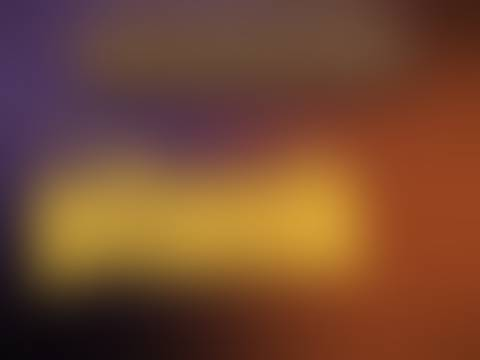
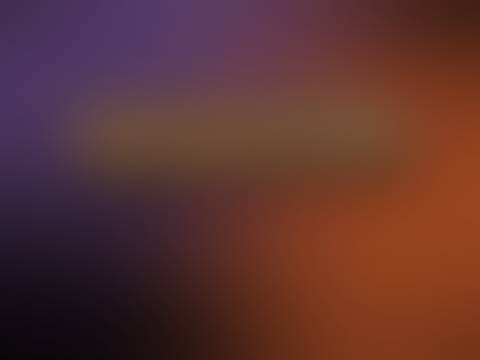
Vakjesbeelden zonder tekst

diff --git a/suadfy-november/index.html b/suadfy-november/index.html
@@ -15,7 +15,7 @@
 <main class="hero smal">
 <p class="label">November 2026</p>
 <h1>Een Remma-dag!</h1>
-<img class="foto" src="../f/9d196b534d.jpg" alt="">
+
 <div class="tekst">
 <p>Een hele dag zonder verplichtingen. Helemaal van jou.</p>
 <div class="bon"><p class="bonkop">Tegoedbon</p><p class="bontitel">Eén Remma-dag</p><ul><li>Geen verplichtingen</li><li>Geen luiers</li><li>Niet koken</li><li>Geen afwas</li></ul><div class="bonextra"><span class="bonkop">Bij te boeken</span><span class="extra">Ontbijt op bed<em>meerprijs</em></span></div><div class="bonvoet"><span>Geldig op een dag naar keuze</span><span>In te wisselen bij Reinout</span></div></div>
@@ -28,7 +28,7 @@ document.querySelectorAll("[data-terug]").forEach(a => a.href += location.search
 </script>
 <script>
 // Onthoudt op dit apparaat dat het vakje open is geweest: de foto wordt scherp en het raadsel vervalt.
-try { localStorage.setItem("remma38-vakje-2", JSON.stringify({pad: "suadfy-november", foto: "9d196b534d"})); } catch (e) {}
+try { localStorage.setItem("remma38-vakje-2", JSON.stringify({pad: "suadfy-november", foto: "9d196b534dt"})); } catch (e) {}
 </script>
 </body>
 </html>

diff --git a/x4fv9v-januari/index.html b/x4fv9v-januari/index.html
@@ -15,7 +15,7 @@
 <main class="hero smal">
 <p class="label">Januari 2027</p>
 <h1>Een boek voor op je Kobo</h1>
-<img class="foto" src="../f/053ffe1b55.jpg" alt="">
+
 <div class="tekst">
 <p>Ik heb een boek voor je uitgekozen. Het staat al voor je klaar.</p>
 <p>Daarbij krijg je een middag zonder verplichtingen om erin te beginnen. Ik regel de rest.</p>
@@ -27,7 +27,7 @@ document.querySelectorAll("[data-terug]").forEach(a => a.href += location.search
 </script>
 <script>
 // Onthoudt op dit apparaat dat het vakje open is geweest: de foto wordt scherp en het raadsel vervalt.
-try { localStorage.setItem("remma38-vakje-4", JSON.stringify({pad: "x4fv9v-januari", foto: "053ffe1b55"})); } catch (e) {}
+try { localStorage.setItem("remma38-vakje-4", JSON.stringify({pad: "x4fv9v-januari", foto: "053ffe1b55t"})); } catch (e) {}
 </script>
 </body>
 </html>

diff --git a/8lygjy-september/index.html b/8lygjy-september/index.html
@@ -15,7 +15,7 @@
 <main class="hero smal">
 <p class="label">September 2027</p>
 <h1>Het hele jaar in één boekje</h1>
-<img class="foto" src="../f/1032194cf0.jpg" alt="">
+
 <div class="tekst">
 <p>Dit is het laatste vakje. Twaalf maanden, twaalf cadeaus.</p>
 <p>Van alles wat we dit jaar gedaan hebben, heb ik een fotoboekje voor je gemaakt.</p>
@@ -28,7 +28,7 @@ document.querySelectorAll("[data-terug]").forEach(a => a.href += location.search
 </script>
 <script>
 // Onthoudt op dit apparaat dat het vakje open is geweest: de foto wordt scherp en het raadsel vervalt.
-try { localStorage.setItem("remma38-vakje-12", JSON.stringify({pad: "8lygjy-september", foto: "1032194cf0"})); } catch (e) {}
+try { localStorage.setItem("remma38-vakje-12", JSON.stringify({pad: "8lygjy-september", foto: "1032194cf0t"})); } catch (e) {}
 </script>
 </body>
 </html>

diff --git a/8k0d5l-december/index.html b/8k0d5l-december/index.html
@@ -15,7 +15,7 @@
 <main class="hero smal">
 <p class="label">December 2026</p>
 <h1>Poffertjes!</h1>
-<img class="foto" src="../f/4a69e811b1.jpg" alt="">
+
 <div class="tekst">
 <p>Deze stond op je lijstje: een poffertjespan.</p>
 <p>Aanstaande zondag bak ik de eerste lading voor je. Met poedersuiker en echte boter, zoals het hoort.</p>
@@ -27,7 +27,7 @@ document.querySelectorAll("[data-terug]").forEach(a => a.href += location.search
 </script>
 <script>
 // Onthoudt op dit apparaat dat het vakje open is geweest: de foto wordt scherp en het raadsel vervalt.
-try { localStorage.setItem("remma38-vakje-3", JSON.stringify({pad: "8k0d5l-december", foto: "4a69e811b1"})); } catch (e) {}
+try { localStorage.setItem("remma38-vakje-3", JSON.stringify({pad: "8k0d5l-december", foto: "4a69e811b1t"})); } catch (e) {}
 </script>
 </body>
 </html>

diff --git a/yg21jc-maart/index.html b/yg21jc-maart/index.html
@@ -15,7 +15,7 @@
 <main class="hero smal">
 <p class="label">Maart 2027</p>
 <h1>Restaurant Gorter</h1>
-<img class="foto" src="../f/e05c3ef19f.jpg" alt="">
+
 <div class="tekst">
 <p>Deze maand ga je uit eten zonder de deur uit te gaan.</p>
 <p>Ik kook drie gangen voor je. Jij hoeft alleen aan te schuiven. De datum spreken we samen af.</p>
@@ -27,7 +27,7 @@ document.querySelectorAll("[data-terug]").forEach(a => a.href += location.search
 </script>
 <script>
 // Onthoudt op dit apparaat dat het vakje open is geweest: de foto wordt scherp en het raadsel vervalt.
-try { localStorage.setItem("remma38-vakje-6", JSON.stringify({pad: "yg21jc-maart", foto: "e05c3ef19f"})); } catch (e) {}
+try { localStorage.setItem("remma38-vakje-6", JSON.stringify({pad: "yg21jc-maart", foto: "e05c3ef19ft"})); } catch (e) {}
 </script>
 </body>
 </html>

diff --git a/5q8qx6-augustus/index.html b/5q8qx6-augustus/index.html
@@ -15,7 +15,7 @@
 <main class="hero smal">
 <p class="label">Augustus 2027</p>
 <h1>Samen op de fiets</h1>
-<img class="foto" src="../f/4ae016f225.jpg" alt="">
+
 <div class="tekst">
 <p>Deze maand gaan we een dag fietsen, met onderweg koffie en gebak.</p>
 <p>De route heb ik al uitgestippeld. Jij hoeft alleen mee te trappen.</p>
@@ -27,7 +27,7 @@ document.querySelectorAll("[data-terug]").forEach(a => a.href += location.search
 </script>
 <script>
 // Onthoudt op dit apparaat dat het vakje open is geweest: de foto wordt scherp en het raadsel vervalt.
-try { localStorage.setItem("remma38-vakje-11", JSON.stringify({pad: "5q8qx6-augustus", foto: "4ae016f225"})); } catch (e) {}
+try { localStorage.setItem("remma38-vakje-11", JSON.stringify({pad: "5q8qx6-augustus", foto: "4ae016f225t"})); } catch (e) {}
 </script>
 </body>
 </html>

diff --git a/vpexvv-mei/index.html b/vpexvv-mei/index.html
@@ -15,7 +15,7 @@
 <main class="hero smal">
 <p class="label">Mei 2027</p>
 <h1>Iets om mee te tekenen</h1>
-<img class="foto" src="../f/88ca9e689c.jpg" alt="">
+
 <div class="tekst">
 <p>Deze maand krijg je een set om mee te tekenen en te handletteren.</p>
 <p>Hij ligt voor je klaar. De eerste kaart die je maakt, wil ik graag hebben.</p>
@@ -27,7 +27,7 @@ document.querySelectorAll("[data-terug]").forEach(a => a.href += location.search
 </script>
 <script>
 // Onthoudt op dit apparaat dat het vakje open is geweest: de foto wordt scherp en het raadsel vervalt.
-try { localStorage.setItem("remma38-vakje-8", JSON.stringify({pad: "vpexvv-mei", foto: "88ca9e689c"})); } catch (e) {}
+try { localStorage.setItem("remma38-vakje-8", JSON.stringify({pad: "vpexvv-mei", foto: "88ca9e689ct"})); } catch (e) {}
 </script>
 </body>
 </html>

diff --git a/n0po8u-juli/index.html b/n0po8u-juli/index.html
@@ -15,7 +15,7 @@
 <main class="hero smal">
 <p class="label">Juli 2027</p>
 <h1>Een avondwandeling met ijs</h1>
-<img class="foto" src="../f/7040cd2759.jpg" alt="">
+
 <div class="tekst">
 <p>Kies een mooie zomeravond uit. Dan gaan we samen wandelen en trakteer ik op een ijsje.</p>
 <p>Jij kiest de smaken, ik kies de route.</p>
@@ -27,7 +27,7 @@ document.querySelectorAll("[data-terug]").forEach(a => a.href += location.search
 </script>
 <script>
 // Onthoudt op dit apparaat dat het vakje open is geweest: de foto wordt scherp en het raadsel vervalt.
-try { localStorage.setItem("remma38-vakje-10", JSON.stringify({pad: "n0po8u-juli", foto: "7040cd2759"})); } catch (e) {}
+try { localStorage.setItem("remma38-vakje-10", JSON.stringify({pad: "n0po8u-juli", foto: "7040cd2759t"})); } catch (e) {}
 </script>
 </body>
 </html>

diff --git a/b8v9q2-april/index.html b/b8v9q2-april/index.html
@@ -15,7 +15,7 @@
 <main class="hero smal">
 <p class="label">April 2027</p>
 <h1>Vrolijke kleuren</h1>
-<img class="foto" src="../f/17f3526df7.jpg" alt="">
+
 <div class="tekst">
 <p>Het is lente, en dat mag je in huis zien.</p>
 <p>Deze maand krijg je een grote bos tulpen in jouw kleuren: roze, paars en oranje.</p>
@@ -27,7 +27,7 @@ document.querySelectorAll("[data-terug]").forEach(a => a.href += location.search
 </script>
 <script>
 // Onthoudt op dit apparaat dat het vakje open is geweest: de foto wordt scherp en het raadsel vervalt.
-try { localStorage.setItem("remma38-vakje-7", JSON.stringify({pad: "b8v9q2-april", foto: "17f3526df7"})); } catch (e) {}
+try { localStorage.setItem("remma38-vakje-7", JSON.stringify({pad: "b8v9q2-april", foto: "17f3526df7t"})); } catch (e) {}
 </script>
 </body>
 </html>

diff --git a/o7uwps-juni/index.html b/o7uwps-juni/index.html
@@ -15,7 +15,7 @@
 <main class="hero smal">
 <p class="label">Juni 2027</p>
 <h1>Iets blauws</h1>
-<img class="foto" src="../f/476ab6cedd.jpg" alt="">
+
 <div class="tekst">
 <p>Deze stond op je lijstje, en ik heb er lang naar gezocht: een blauwe ketting.</p>
 <p>Ik hoop dat het precies de goede is.</p>
@@ -27,7 +27,7 @@ document.querySelectorAll("[data-terug]").forEach(a => a.href += location.search
 </script>
 <script>
 // Onthoudt op dit apparaat dat het vakje open is geweest: de foto wordt scherp en het raadsel vervalt.
-try { localStorage.setItem("remma38-vakje-9", JSON.stringify({pad: "o7uwps-juni", foto: "476ab6cedd"})); } catch (e) {}
+try { localStorage.setItem("remma38-vakje-9", JSON.stringify({pad: "o7uwps-juni", foto: "476ab6ceddt"})); } catch (e) {}
 </script>
 </body>
 </html>

diff --git a/be7lod-februari/index.html b/be7lod-februari/index.html
@@ -30,7 +30,7 @@ document.querySelectorAll("[data-terug]").forEach(a => a.href += location.search
 </script>
 <script>
 // Onthoudt op dit apparaat dat het vakje open is geweest: de foto wordt scherp en het raadsel vervalt.
-try { localStorage.setItem("remma38-vakje-5", JSON.stringify({pad: "be7lod-februari", foto: "d8f17260d9"})); } catch (e) {}
+try { localStorage.setItem("remma38-vakje-5", JSON.stringify({pad: "be7lod-februari", foto: "d8f17260d9t"})); } catch (e) {}
 </script>
 </body>
 </html>

diff --git a/wkq1ri-oktober/index.html b/wkq1ri-oktober/index.html
@@ -29,7 +29,7 @@ document.querySelectorAll("[data-terug]").forEach(a => a.href += location.search
 </script>
 <script>
 // Onthoudt op dit apparaat dat het vakje open is geweest: de foto wordt scherp en het raadsel vervalt.
-try { localStorage.setItem("remma38-vakje-1", JSON.stringify({pad: "wkq1ri-oktober", foto: "86929eb2c3"})); } catch (e) {}
+try { localStorage.setItem("remma38-vakje-1", JSON.stringify({pad: "wkq1ri-oktober", foto: "86929eb2c3t"})); } catch (e) {}
 </script>
 </body>
 </html>
